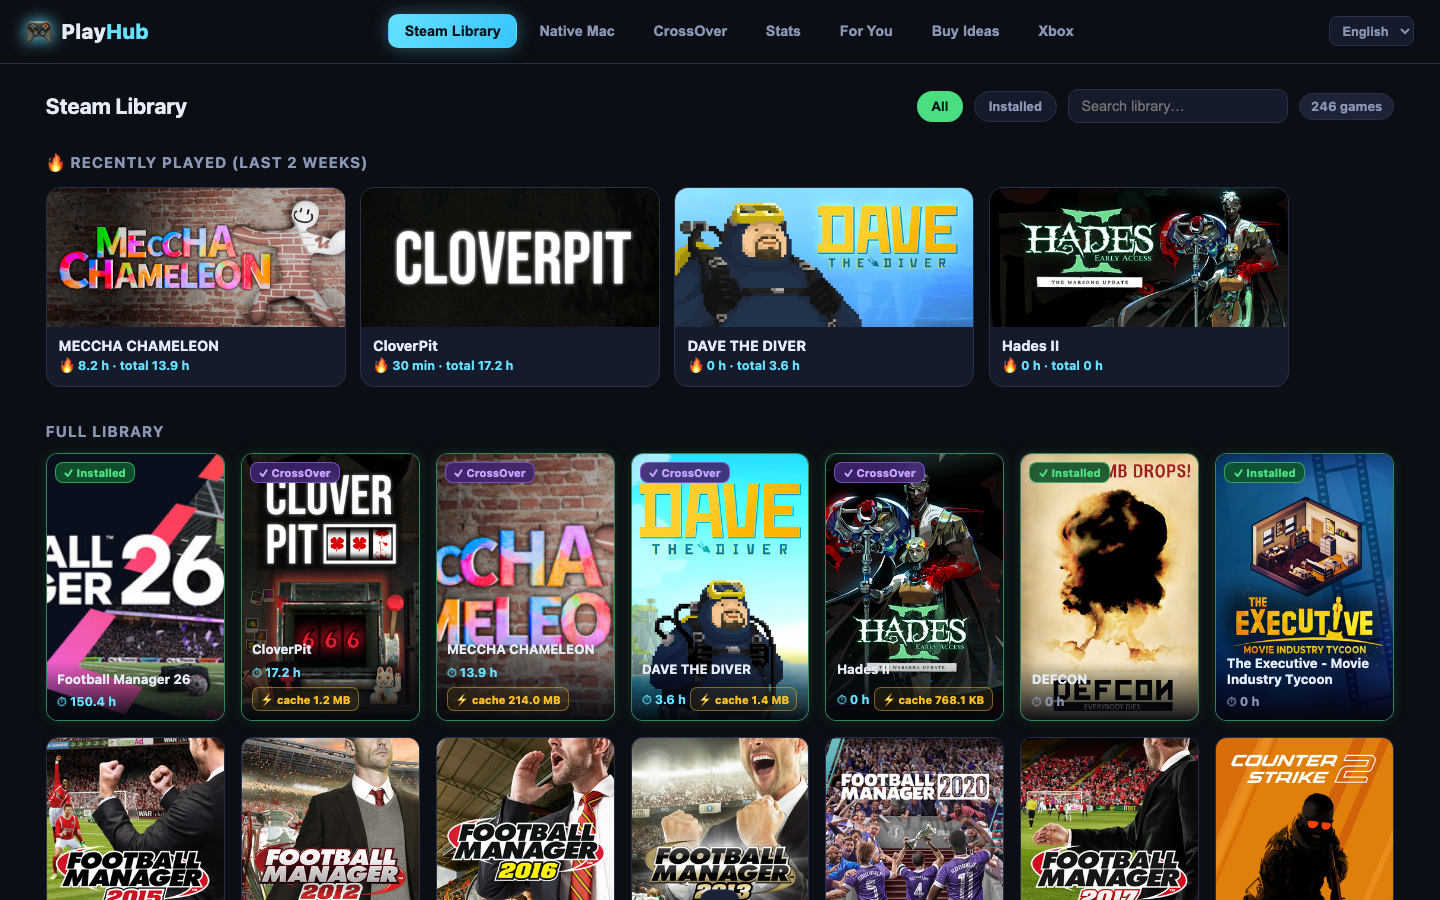
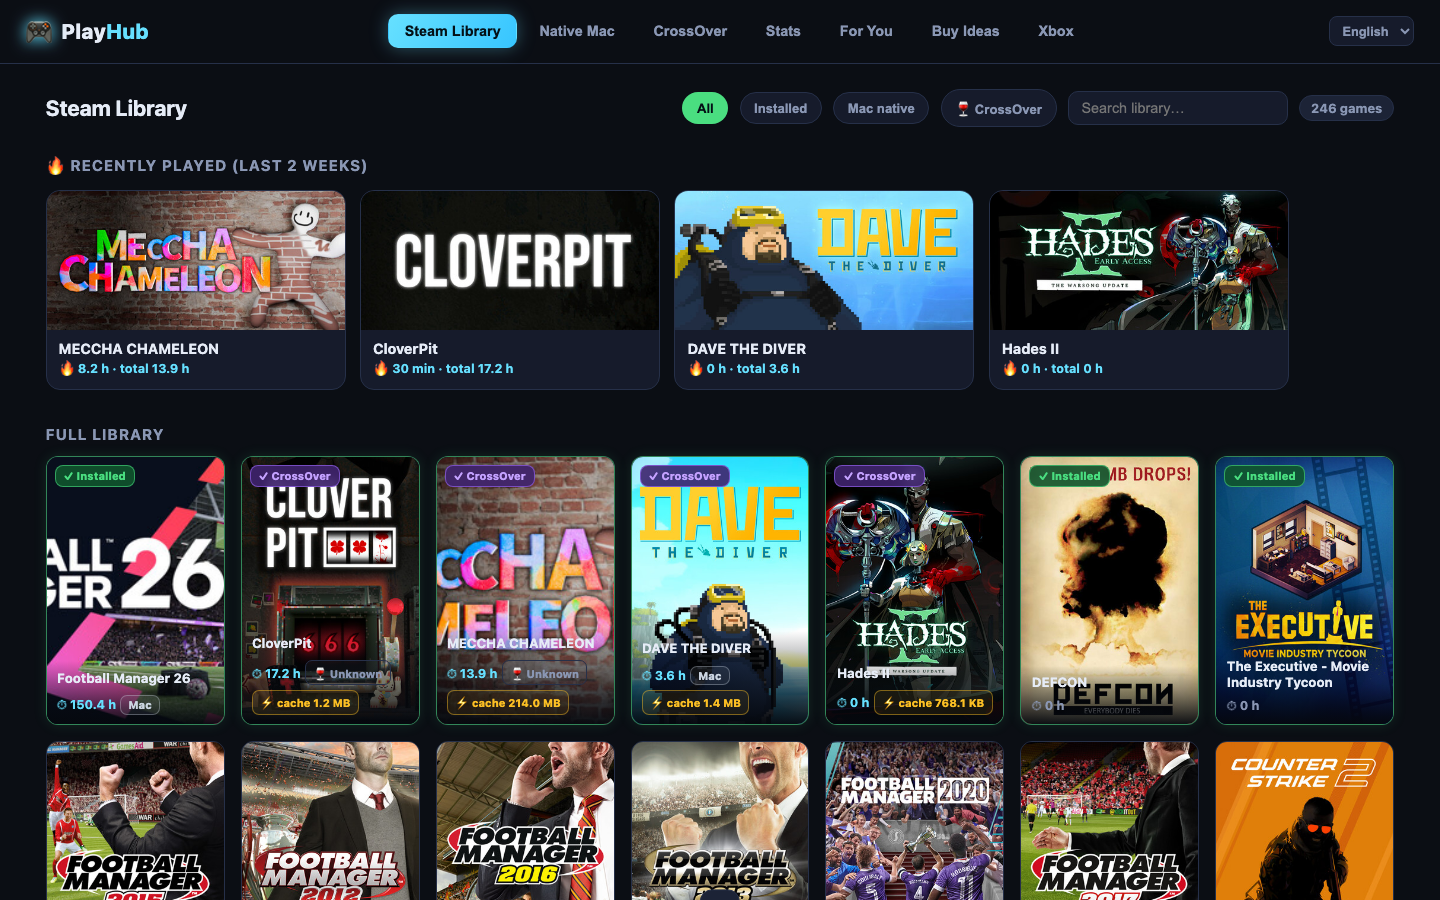
Library: native-Mac vs CrossOver platform badges + compatibility ratings
- Steam appdetails 'platforms' marks each game Mac-native or Windows-only
- Windows-only games get CrossOver compatibility ratings from
  AppleGamingWiki (community data, cached 30 days, graceful unknown)
- New library filters: Mac native / CrossOver
- Colored rating chips: perfect/playable/runs/broken/unknown

diff --git a/web/lib/maccompat.js b/web/lib/maccompat.js
@@ -1,0 +1,127 @@
+// CrossOver compatibility ratings from AppleGamingWiki (community data).
+// Matching is by game name (AGW has no Steam appid field), with graceful
+// "unknown" when a game has no page. Cached on disk for 30 days.
+
+import fs from "node:fs";
+import fsp from "node:fs/promises";
+import path from "node:path";
+import { fileURLToPath } from "node:url";
+
+const __dirname = path.dirname(fileURLToPath(import.meta.url));
+const CACHE_FILE = path.join(__dirname, "..", "cache", "maccompat.json");
+const TTL = 30 * 24 * 3600_000;
+const UA = "PlayHub/0.1 (github.com/PlayHubHQDK/playhub)";
+const API = "https://www.applegamingwiki.com/w/api.php";
+
+// AGW crossover-værdier -> normaliserede tiers.
+const TIER = {
+  perfect: "perfect",
+  playable: "playable",
+  runs: "runs",
+  menu: "broken",
+  unplayable: "broken",
+  crashes: "broken",
+  na: "unknown",
+  unknown: "unknown",
+};
+
+let cache = {};
+try {
+  cache = JSON.parse(fs.readFileSync(CACHE_FILE, "utf8"));
+} catch {
+  /* empty */
+}
+let dirty = false;
+setInterval(() => {
+  if (!dirty) return;
+  dirty = false;
+  fsp
+    .mkdir(path.dirname(CACHE_FILE), { recursive: true })
+    .then(() => fsp.writeFile(CACHE_FILE, JSON.stringify(cache)))
+    .catch(() => {});
+}, 30_000).unref();
+
+function normName(name) {
+  return String(name)
+    .replace(/[™®©]/g, "")
+    .replace(/\s+/g, " ")
+    .trim();
+}
+const key = (name) => normName(name).toLowerCase();
+
+async function agwLookup(pageName) {
+  const url = `${API}?action=cargoquery&tables=Compatibility_macOS&fields=_pageName=page,crossover,parallels&where=Compatibility_macOS._pageName=${encodeURIComponent(
+    `"${pageName.replace(/"/g, '\\"')}"`
+  )}&format=json`;
+  const res = await fetch(url, { headers: { "User-Agent": UA } });
+  if (!res.ok) throw new Error(`AGW HTTP ${res.status}`);
+  const j = await res.json();
+  return j?.cargoquery?.[0]?.title || null;
+}
+
+async function fetchCompat(name) {
+  const clean = normName(name);
+  // Prøv eksakt navn, dernæst uden kolon-undertitel-varianter.
+  const candidates = [clean];
+  if (clean.includes(":")) candidates.push(clean.split(":")[0].trim());
+  for (const c of candidates) {
+    try {
+      const hit = await agwLookup(c);
+      if (hit) {
+        const raw = String(hit.crossover || "unknown").toLowerCase();
+        return {
+          rating: TIER[raw] || "unknown",
+          raw,
+          page: hit.page,
+          url: `https://www.applegamingwiki.com/wiki/${encodeURIComponent(
+            hit.page.replace(/ /g, "_")
+          )}`,
+        };
+      }
+    } catch {
+      return null; // netværksfejl — prøv igen senere (cacher ikke)
+    }
+    await new Promise((r) => setTimeout(r, 400));
+  }
+  return { rating: "unknown", raw: null, page: null, url: null };
+}
+
+// Synkront opslag fra cache (bruges af library-endpointet).
+export function getCompatCached(name) {
+  const hit = cache[key(name)];
+  if (hit && Date.now() - hit.fetchedAt < TTL) return hit.data;
+  return null;
+}
+
+// Baggrunds-kø: slå kompatibilitet op for Windows-only spil, throttlet.
+let queue = [];
+let running = false;
+
+export function enqueueCompat(names) {
+  const now = Date.now();
+  const missing = names
+    .map(normName)
+    .filter((n) => {
+      const hit = cache[key(n)];
+      return !hit || now - hit.fetchedAt > TTL;
+    });
+  queue = [...new Set([...queue, ...missing])];
+  if (!running && queue.length) runQueue();
+}
+
+async function runQueue() {
+  running = true;
+  try {
+    while (queue.length) {
+      const name = queue.shift();
+      const data = await fetchCompat(name);
+      if (data) {
+        cache[key(name)] = { fetchedAt: Date.now(), data };
+        dirty = true;
+      }
+      await new Promise((r) => setTimeout(r, 1200));
+    }
+  } finally {
+    running = false;
+  }
+}

diff --git a/web/public/app.js b/web/public/app.js
@@ -169,6 +169,10 @@ function renderLibrary(games) {
   const grid = $("#library-grid");
   if (libraryFilter === "installed") {
     games = games.filter((g) => g.installed_on);
+  } else if (libraryFilter === "native") {
+    games = games.filter((g) => g.mac_native === true);
+  } else if (libraryFilter === "windows") {
+    games = games.filter((g) => g.mac_native === false);
   }
   if (!games.length) {
     grid.innerHTML = `<div class="empty">${t("No games match.")}</div>`;
@@ -202,11 +206,35 @@ function renderLibrary(games) {
           <span class="playtime ${zero ? "zero" : ""}">⏱ ${fmtHours(
         g.playtime_forever_hours
       )}</span>
+          ${platformChip(g)}
           ${cacheChip(g)}
         </div>
       </div>`;
     })
     .join("");
+}
+
+// Platform/kompatibilitets-chip:  native eller 🍷 CrossOver-rating.
+const RATING_LABEL = {
+  perfect: "Perfect",
+  playable: "Playable",
+  runs: "Runs with issues",
+  broken: "Doesn't work",
+  unknown: "Unknown",
+};
+function platformChip(g) {
+  if (g.mac_native === true) {
+    return `<span class="platform-chip native" title="${t("Runs natively on macOS")}"> Mac</span>`;
+  }
+  if (g.mac_native === false) {
+    const r = g.crossover_rating || "unknown";
+    const label = t(RATING_LABEL[r] || "Unknown");
+    return `<span class="platform-chip xo rating-${r}" title="${t(
+      "CrossOver compatibility: {0} (community data from AppleGamingWiki)",
+      label
+    )}">🍷 ${label}</span>`;
+  }
+  return ""; // ukendt endnu (berigelse i gang)
 }
 
 // Shader-cache chip for CrossOver games.

diff --git a/web/server.js b/web/server.js
@@ -42,6 +42,7 @@ import { recommend, buildGenreProfile } from "./lib/recommend.js";
 import { discover } from "./lib/discover.js";
 import { getDeals } from "./lib/deals.js";
 import { getVersionInfo } from "./lib/version.js";
+import { getCompatCached, enqueueCompat } from "./lib/maccompat.js";
 import {
   isConfigured,
   resolveSteamId,
@@ -173,8 +174,19 @@ app.get(
     // Kick off (or refresh) background store-metadata enrichment,
     // and attach whatever metadata is already cached.
     enqueueEnrichment(data.games.map((g) => g.appid));
+    const windowsOnly = [];
     for (const g of data.games) {
       const meta = getMeta(g.appid);
+      // Platform + CrossOver-kompatibilitet
+      g.mac_native = meta?.mac_native ?? null; // null = ikke beriget endnu
+      if (g.mac_native === false) {
+        windowsOnly.push(g.name);
+        const compat = getCompatCached(g.name);
+        if (compat) {
+          g.crossover_rating = compat.rating;
+          g.crossover_url = compat.url;
+        }
+      }
       if (meta?.review_score_desc) {
         g.review_score_desc = meta.review_score_desc;
         g.review_score_desc_da =
@@ -185,6 +197,7 @@ app.get(
         g.metacritic = meta.metacritic ?? null;
       }
     }
+    enqueueCompat(windowsOnly);
     // Installed games first, then by playtime within each group.
     data.games.sort((a, b) => {
       const ai = a.installed_on ? 0 : 1;

diff --git a/web/public/styles.css b/web/public/styles.css
@@ -419,6 +419,27 @@ button.btn:disabled { opacity: 0.5; cursor: not-allowed; }
 .xbox-card p { margin: 0 0 0.9rem; color: var(--muted); font-size: 0.85rem; }
 .xbox-card .go { color: #4ade80; font-weight: 700; font-size: 0.9rem; }
 
+/* Platform/kompatibilitets-chip */
+.platform-chip {
+  display: inline-block;
+  margin: 0.3rem 0.3rem 0 0;
+  font-size: 0.68rem;
+  font-weight: 800;
+  padding: 0.15rem 0.45rem;
+  border-radius: 7px;
+  border: 1px solid;
+}
+.platform-chip.native {
+  color: #cbd5e1;
+  border-color: rgba(203, 213, 225, 0.35);
+  background: rgba(203, 213, 225, 0.08);
+}
+.platform-chip.xo.rating-perfect { color: #4ade80; border-color: rgba(74,222,128,.45); background: rgba(74,222,128,.08); }
+.platform-chip.xo.rating-playable { color: #a3e635; border-color: rgba(163,230,53,.45); background: rgba(163,230,53,.08); }
+.platform-chip.xo.rating-runs { color: #fbbf24; border-color: rgba(251,191,36,.45); background: rgba(251,191,36,.08); }
+.platform-chip.xo.rating-broken { color: #f87171; border-color: rgba(248,113,113,.45); background: rgba(248,113,113,.08); }
+.platform-chip.xo.rating-unknown { color: var(--muted); border-color: var(--border); background: rgba(138,151,180,.08); }
+
 /* Shader-cache chip */
 .cache-chip {
   display: inline-block;

diff --git a/web/public/i18n.js b/web/public/i18n.js
@@ -163,6 +163,18 @@ const DICT = {
       "Dit Steam-bibliotek ser tomt ud. Hvis du ejer spil, er din Steam-profils “Spiloplysninger” formentlig ikke sat til Offentlig.",
     "Open Steam privacy settings": "Åbn Steams privatlivsindstillinger",
 
+    // Platform & CrossOver-kompatibilitet
+    " Mac native": " Mac-native",
+    "🍷 CrossOver": "🍷 CrossOver",
+    "Runs natively on macOS": "Kører native på macOS",
+    "CrossOver compatibility: {0} (community data from AppleGamingWiki)":
+      "CrossOver-kompatibilitet: {0} (community-data fra AppleGamingWiki)",
+    "Perfect": "Perfekt",
+    "Playable": "Spilbart",
+    "Runs with issues": "Kører med problemer",
+    "Doesn't work": "Virker ikke",
+    "Unknown": "Ukendt",
+
     // Update banner
     "New version available: {0} (you have {1})": "Ny version tilgængelig: {0} (du har {1})",
     "See what's new ↗": "Se nyhederne ↗",

diff --git a/web/lib/storemeta.js b/web/lib/storemeta.js
@@ -74,6 +74,7 @@ async function fetchDetails(appid) {
   const d = j?.[appid];
   if (!d?.success || !d.data) return { missing: true };
   return {
+    mac_native: Boolean(d.data.platforms?.mac),
     metacritic: d.data.metacritic?.score ?? null,
     metacritic_url: d.data.metacritic?.url || null,
     genres: (d.data.genres || []).map((g) => g.description),
@@ -119,7 +120,11 @@ async function runQueue() {
     // Pass 2: appdetails (metacritic + genrer)
     for (const id of queue) {
       const e = entry(id);
-      if (e.details && now - (e.details_at || 0) < DETAILS_TTL) {
+      if (
+        e.details &&
+        now - (e.details_at || 0) < DETAILS_TTL &&
+        (e.details.missing || e.details.mac_native !== undefined)
+      ) {
         status.details_done++;
         continue;
       }

diff --git a/web/public/index.html b/web/public/index.html
@@ -36,6 +36,8 @@
           <div class="panel-meta">
             <button class="filter-chip active" data-filter="all" data-i18n>All</button>
             <button class="filter-chip" data-filter="installed" data-i18n>Installed</button>
+            <button class="filter-chip" data-filter="native" data-i18n> Mac native</button>
+            <button class="filter-chip" data-filter="windows" data-i18n>🍷 CrossOver</button>
             <input id="library-search" type="search" placeholder="Search library…" data-i18n-placeholder />
             <span id="library-count" class="badge">—</span>
           </div>
